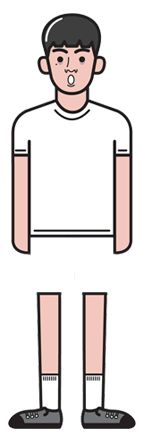
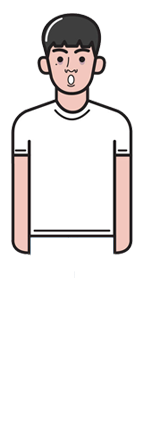
내옷장 저장 오류

Changed region(s): [[0.5634, 0.6605, 0.9577, 0.9908], [0.0563, 0.6605, 0.4507, 0.9908]]

diff --git a/1st_project/src/mbti_gui/ClosetUI.java b/1st_project/src/mbti_gui/ClosetUI.java
@@ -21,9 +21,11 @@ import mbti_vo.UserItemVO;
 import mbti_vo.UserVO;
 
 public class ClosetUI extends JPanel implements ActionListener, MouseListener{
-	ImageIcon character;
-
-	JLabel character_l;
+	ImageIcon character,char_reset;
+	ImageIcon nohair = new ImageIcon("images/merge_charactor_nohair.png");		
+	ImageIcon notop = new ImageIcon("images/merge_charactor_notop.png");		
+	ImageIcon nobottom = new ImageIcon("images/merge_charactor_nobottom.png");		
+	JLabel character_l,char_reset_l,nohair_l,notop_l,nobottom_l;
 	
 	ArrayList<ImageIcon> cl_list = new ArrayList<ImageIcon>();//내옷장 안 작은 이미지 리스트
 	ArrayList<JButton> btn_list = new ArrayList<JButton>();//내옷장 안 작은 이미지를 버튼으로 만든 리스트
@@ -42,6 +44,7 @@ public class ClosetUI extends JPanel implements ActionListener, MouseListener{
 	MbtiMainUI main;
 	UserItemVO uitem;
 	UserVO userch;
+	int result=0;
 	
 	int hidx=0,tidx=0,bidx=0,type=-1;
 //	JButton btn_hair;
@@ -59,6 +62,17 @@ public class ClosetUI extends JPanel implements ActionListener, MouseListener{
 		setBackground(Color.white);
 		con = new JPanel();
 		con.setSize(900,700);
+		
+		
+		nohair_l = new JLabel(nohair);
+		notop_l = new JLabel(notop);
+		nobottom_l = new JLabel(nobottom);
+		nohair_l.setBounds(0,2,142,500);
+		notop_l.setBounds(0,2,142,500);
+		nobottom_l.setBounds(0,2,142,500);
+		
+		char_reset = new ImageIcon("images/merge_charactor.png");
+		char_reset_l = new JLabel(char_reset);
 		
 		userch = main.system.getUserChar(main.id_tf.getText());
 		character = new ImageIcon(userch.getU_char());
@@ -207,8 +221,11 @@ public class ClosetUI extends JPanel implements ActionListener, MouseListener{
 			
 			revalidate();
 		}else if(obj == btn_reset) {
-			
-			character_l.setVisible(true);
+			character_l.setVisible(false);
+			nohair_l.setVisible(false);
+			notop_l.setVisible(false);
+			nobottom_l.setVisible(false);
+			char_reset_l.setVisible(true);
 			if(hair_list.size() != 0) {
 				for(int i=0;i<hair_list.size();i++) {
 					hair_list.get(i).setVisible(false);
@@ -225,17 +242,30 @@ public class ClosetUI extends JPanel implements ActionListener, MouseListener{
 				}
 			}
 			
-			add(character_l,BorderLayout.WEST);	//#####################
+			add(char_reset_l,BorderLayout.WEST);	//#####################
 			con.repaint();
 			revalidate();
 			
 		}else if(obj == btn_save) {
-			if(main.system.saveUserChar(main.id_tf.getText(), ch_list.get(hidx), ct_list.get(tidx), cb_list.get(bidx)) != 0) {
+			if(nohair_l.isVisible()) {
+				result = main.system.saveUserChar(main.id_tf.getText(), ch_list.get(hidx), nohair);
+//			}else if(notop_l.isVisible()) {
+//				result = main.system.saveUserChar(main.id_tf.getText(), notop, ct_list.get(tidx));
+//			}else if(nobottom_l.isVisible()) {
+//				result = main.system.saveUserChar(main.id_tf.getText(), nobottom, cb_list.get(bidx));
+			}else if(char_reset_l.isVisible()) {
+				result = main.system.saveUserChar(main.id_tf.getText());
+			}else if(hair_list.get(hidx).isVisible() && top_list.get(tidx).isVisible() && bottom_list.get(bidx).isVisible()) {
+				result = main.system.saveUserChar(main.id_tf.getText(), ch_list.get(hidx), ct_list.get(tidx), cb_list.get(bidx));
+			}
+			if(result != 0) {
 				JOptionPane.showMessageDialog(null, Commons.getMsg("저장되었습니다"));
 			}else {
 				JOptionPane.showMessageDialog(null, Commons.getMsg("저장에 실패하였습니다"));
 			}
+			
 		}else {
+			char_reset_l.setVisible(false);
 			character_l.setVisible(false);
 			for(int i=0;i<cl_list.size();i++) {
 				if(obj == btn_list.get(i)) {
@@ -243,20 +273,32 @@ public class ClosetUI extends JPanel implements ActionListener, MouseListener{
 						for(int j=0;j<=hidx;j++) {
 							hair_list.get(j).setVisible(false);
 						}
+						nohair_l.setVisible(true);
+						notop_l.setVisible(false);
+						nobottom_l.setVisible(false);
+						add(nohair_l,BorderLayout.WEST);
 						hair_list.get(i).setVisible(true);
 						add(hair_list.get(i),BorderLayout.WEST);
 						hidx=i;
 					}else if(type==1) {
 						for(int j=0;j<=tidx;j++) {
-							top_list.get(j).setVisible(false);
+						top_list.get(j).setVisible(false);
 						}
+						notop_l.setVisible(true);
+						nohair_l.setVisible(false);
+						nobottom_l.setVisible(false);
 						top_list.get(i).setVisible(true);
+						add(notop_l,BorderLayout.WEST);
 						add(top_list.get(i),BorderLayout.WEST);
 						tidx=i;
 					}else if(type==2) {
 						for(int j=0;j<=bidx;j++) {
 							bottom_list.get(j).setVisible(false);
 						}
+						nohair_l.setVisible(false);
+						notop_l.setVisible(false);
+						nobottom_l.setVisible(true);
+						add(nobottom_l,BorderLayout.WEST);
 						bottom_list.get(i).setVisible(true);
 						add(bottom_list.get(i),BorderLayout.WEST);
 						bidx=i;

diff --git a/1st_project/src/mbti_dao/UserDAO.java b/1st_project/src/mbti_dao/UserDAO.java
@@ -1,6 +1,5 @@
 package mbti_dao;
 
-import java.awt.Color;
 import java.awt.Graphics2D;
 import java.awt.image.BufferedImage;
 import java.io.File;
@@ -152,7 +151,7 @@ public class UserDAO extends DBConn{
 		return result;
 	}
 	
-	/** 유저 캐릭터 완성본 저장 **/
+	/** 유저 캐릭터 완성본 저장(헤어,상의,하의 다 있을 때) **/
 	public int saveUserCharResult(String id, ImageIcon hair, ImageIcon top, ImageIcon bottom) {
 		int result = 0;
 		
@@ -188,6 +187,68 @@ public class UserDAO extends DBConn{
 		
 		return result;
 	}
+	
+	/** 유저 캐릭터 완성본 저장(헤어,상의,하의 중 하나만 있을 때) **/
+	public int saveUserCharResult(String id, ImageIcon hair, ImageIcon top) {
+		int result = 0;
+		
+		try {
+			String sql = " UPDATE USER_TABLE SET U_CHAR = ?"
+					+ " WHERE U_ID = ? ";
+			getPreparedStatement(sql);
+			BufferedImage himg = (BufferedImage) hair.getImage();
+			BufferedImage timg = (BufferedImage) top.getImage();
+			
+			BufferedImage merge = new BufferedImage(timg.getWidth(),
+					timg.getHeight(),BufferedImage.TYPE_INT_ARGB);
+			Graphics2D g = (Graphics2D) merge.getGraphics();
+			g.drawImage(timg, 0, 0, null);
+			g.drawImage(himg, 0, 0, null);
+			
+			ImageIO.write(merge, "png", new File("images/char_"+id+".png"));
+			
+			FileInputStream fin = new FileInputStream("images/char_"+id+".png");
+			pstmt.setBinaryStream(1, fin, fin.available());
+			
+			pstmt.setString(2, id);
+			
+			result = pstmt.executeUpdate();
+			
+			
+		} catch (Exception e) {
+			// TODO: handle exception
+			e.printStackTrace();
+		}
+		
+		return result;
+	}
+	
+	/** 유저 캐릭터 완성본 저장(초기상태로 되돌렸을 때) **/
+	public int saveUserCharResult(String id) {
+		int result = 0;
+		
+		try {
+			String sql = " UPDATE USER_TABLE SET U_CHAR = ?"
+					+ " WHERE U_ID = ? ";
+			getPreparedStatement(sql);
+			
+			FileInputStream fin = new FileInputStream("images/merge_charactor.png");
+			
+			pstmt.setBinaryStream(1, fin, fin.available());
+			
+			pstmt.setString(2, id);
+			
+			result = pstmt.executeUpdate();
+			
+			
+		} catch (Exception e) {
+			// TODO: handle exception
+			e.printStackTrace();
+		}
+		
+		return result;
+	}
+	
 	
 	/** 유저 완성캐릭터 조회 **/
 	public UserVO getUserChar(String id) {

diff --git a/1st_project/src/mbti_system/MbtiMgmSystem.java b/1st_project/src/mbti_system/MbtiMgmSystem.java
@@ -79,9 +79,19 @@ public class MbtiMgmSystem {
 		return u_idao.getUserBottomItem(id);
 	}
 	
-	/** 회원 완성캐릭터 수정 **/
+	/** 회원 완성캐릭터 수정 (헤어,상의,하의 다 있을 때)**/
 	public int saveUserChar(String id, ImageIcon hair, ImageIcon top, ImageIcon bottom) {
 		return udao.saveUserCharResult(id, hair, top, bottom);
+	}
+	
+	/** 회원 완성캐릭터 수정(헤어,상의,하의 중 하나만 있을 때) **/
+	public int saveUserChar(String id, ImageIcon hair, ImageIcon top) {
+		return udao.saveUserCharResult(id, hair, top);
+	}
+	
+	/** 회원 완성캐릭터 수정(초기상태) **/
+	public int saveUserChar(String id) {
+		return udao.saveUserCharResult(id);
 	}
 	
 	/** 회원 완성캐릭터 조회 **/
@@ -95,9 +105,9 @@ public class MbtiMgmSystem {
 	}
 
 	/** 모든 아이템 조회 **/
-	public ArrayList<ItemVO> getItem() {
-		return idao.getItemResult();
-	}
+//	public ArrayList<ItemVO> getItem() {
+//		return idao.getItemResult();
+//	}
 
 	/** 내 mbti 조회 **/
 	public MbtiVO getMbti(UserVO user) {
